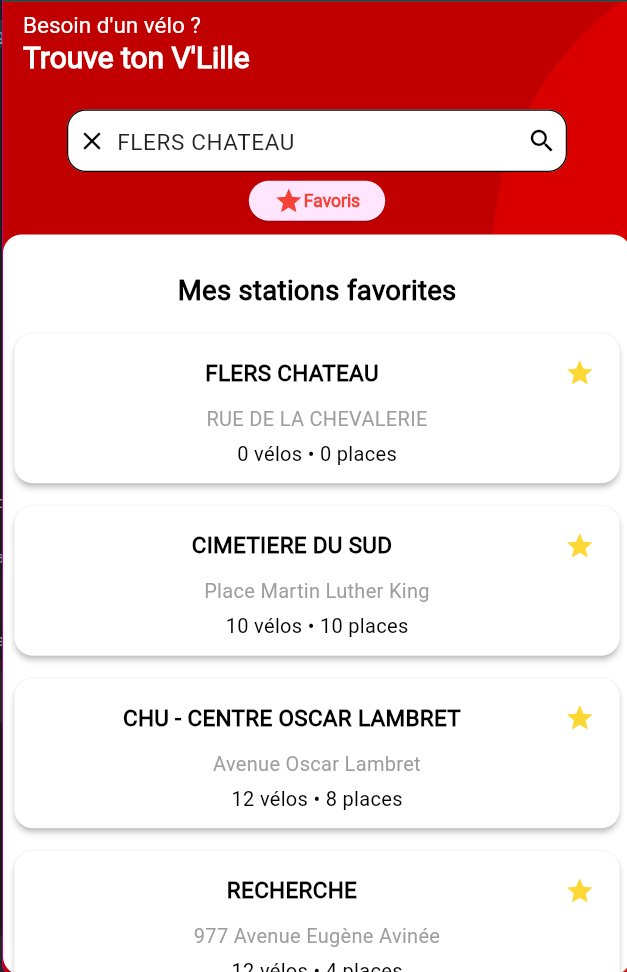
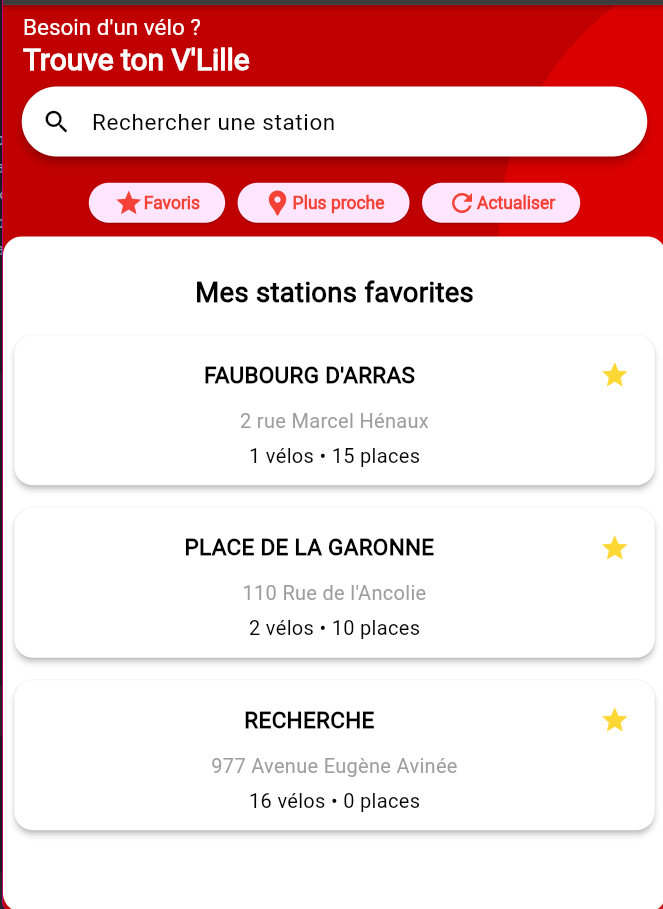
fix searchbar

diff --git a/lib/main.dart b/lib/main.dart
@@ -133,7 +133,41 @@ class VLilleHomePageState extends State<VLilleHomePage> {
                       children: [Icon(Icons.star), Text("Favoris")],
                     ),
                    ),
+                  SizedBox(width: 10),
+                  // bouton station la plus proche
+                  ElevatedButton(
+                    onPressed: () {
+                      //reset la station selectionnée
+                      var proche = Provider.of<StationsProvider>(context, listen: false)
+                          .closestStation;
+                      Provider.of<StationsProvider>(context, listen: false)
+                          .selectStation(Station("", "", 0, 0, 0.0, 0.0, false));
+                      // map sur la station la plus proche
+                      moveMapToStation(proche.y,proche.x);
+                      setState(() {
+                        _showClosest = true;
+                        _showMap = true;
+                        _showFavorites = false;
+                      });
+                    },
+                    child: const Row(
+                      children: [Icon(Icons.location_pin), Text("Plus proche")],
+                    ),
+                  ),
+                  // refresh button
+                  SizedBox(width: 10),
+                  ElevatedButton(
+                    onPressed: () {
+                      setState(() {
+                        Provider.of<StationsProvider>(context, listen: false).refresh();
+                      });
+                    },
+                    child: const Row(
+                      children: [Icon(Icons.refresh), Text("Actualiser")],
+                    ),
+                  ),
                   ],
+
                 ),
                   const SizedBox(height: 20),
                   // La map
@@ -225,18 +259,13 @@ class VLilleHomePageState extends State<VLilleHomePage> {
                 const SizedBox(height: 10),
                 StationSearchBar(
                   mapController: _mapController,
-                  onClearQuery: () {
-                    setState(() {
-                      _showClosest = true;
-                    });
-                  },
-                  onSelectStation: () {
-                    setState(() {
-                      _showClosest = false;
-                      _showFavorites = false;
-                      _showMap = true;
-                    });
-                  },
+                onSelectStation: (){
+                  setState(() {
+                    _showClosest = false;
+                    _showFavorites = false;
+                    _showMap = true;
+                  });
+                },
                 ),
               ],
             ))
@@ -402,66 +431,37 @@ class FavoriteStationsWidget extends StatelessWidget {
 }
 
 
-class StationSearchBar extends StatefulWidget {
-  final Function onSelectStation;
-  final Function onClearQuery;
+class StationSearchBar extends StatefulWidget{
   final MapController mapController;
+  final Function onSelectStation;
 
-  const StationSearchBar(
-      {super.key,
-      required this.onSelectStation,
-      required this.onClearQuery,
-      required this.mapController});
+  const StationSearchBar({super.key, required this.mapController, required this.onSelectStation});
 
   @override
   State<StationSearchBar> createState() => _StationSearchBarState();
+  
 }
 
 class _StationSearchBarState extends State<StationSearchBar> {
-  String query = "";
-  final FocusNode _focusNode = FocusNode();
-  bool _hideSuggestions = true;
-  final TextEditingController _controller = TextEditingController();
-  List<String> suggestions = [];
+  List<Station> stations = [];
+  List<Station> suggestions = [];
+  SearchController searchController = SearchController();
 
-  void onQueryChange(String newQuery) {
+  // @override
+  // void initState(){
+  //   super.initState();
+  //   setState(() {
+  //     stations = Provider.of<StationsProvider>(context, listen: false).stations;
+  //     suggestions = stations;
+  //   });
+  //   print(stations);
+  //
+  // }
+
+  void getSuggestions(String query){
     setState(() {
-      query = newQuery;
-      // if(query.isEmpty){suggestions = [];}
-      suggestions = getSuggestions(query,
-          Provider.of<StationsProvider>(context, listen: false).stations);
     });
-  }
 
-  void initState() {
-    super.initState();
-    _focusNode.addListener(() {
-      if (!_focusNode.hasFocus && query.isEmpty) {
-        setState(() {
-          // suggestions = [];
-        });
-      } else {
-        _hideSuggestions = false;
-        setState(() {
-          suggestions = getSuggestions(query,
-              Provider.of<StationsProvider>(context, listen: false).stations);
-        });
-      }
-    });
-  }
-
-  List<String> getSuggestions(String query, List<Station> stations) {
-    return stations
-        .where((station) =>
-            station.name.toLowerCase().contains(query.toLowerCase()))
-        .map((station) => station.name)
-        .toList();
-  }
-
-  void hideSuggestions() {
-    setState(() {
-      _hideSuggestions = true;
-    });
   }
 
   void moveMapToStation(double lat, double lon) {
@@ -470,110 +470,51 @@ class _StationSearchBarState extends State<StationSearchBar> {
 
   @override
   Widget build(BuildContext context) {
-    return Container(
-        margin: EdgeInsets.only(
-            left: (MediaQuery.of(context).size.width - 400) / 2, top: 20),
-        child: Column(
-          children: [
-            SizedBox(
-              height: 50,
-              width: 400,
-              child: TextField(
-                controller: _controller,
-                focusNode: _focusNode,
-                onChanged: onQueryChange,
-                decoration: InputDecoration(
-                  filled: true,
-                  fillColor: Colors.white,
-                  hintText: "Rechercher une station",
-                  suffixIcon: IconButton(
-                      // rechercher suggestion
-                      onPressed: () {
-                        setState(() {
-                          var station;
-                          // si la recherche correspond à une station
-                          if (Provider.of<StationsProvider>(context,
-                                  listen: false)
-                              .stations
-                              .where((station) => station.name == query)
-                              .isNotEmpty) {
-                            station = Provider.of<StationsProvider>(context,
-                                    listen: false)
-                                .stations
-                                .firstWhere((station) => station.name == query);
-                            Provider.of<StationsProvider>(context,
-                                    listen: false)
-                                .selectStation(station);
-                            moveMapToStation(station.y, station.x);
-                            widget.onSelectStation();
-                          }
-                        });
-                      },
-                      icon: const Icon(Icons.search)),
-                  prefixIcon: IconButton(
-                    onPressed: () {
-                      _controller.clear();
-                      hideSuggestions();
-                      onQueryChange("");
-                      //enlever la station selectionnée
-                      Provider.of<StationsProvider>(context, listen: false)
-                              .selectStation(Station("", "", 0, 0, 0.0, 0.0, false));
-                      var station =
-                          Provider.of<StationsProvider>(context, listen: false)
-                              .closestStation;
-                      moveMapToStation(station.y, station.x);
-                      widget.onClearQuery();
+      return Center(
+        child:Container(
+          width: MediaQuery.of(context).size.width-30,
+          child: SearchAnchor(
+              builder: (BuildContext context, SearchController controller){
+
+                return SearchBar(
+                  padding: const WidgetStatePropertyAll<EdgeInsets>(
+                      EdgeInsets.symmetric(horizontal: 16.0)),
+                  onTap: (){
+                    controller.openView();
+                    stations = Provider.of<StationsProvider>(context, listen: false).stations;
+                    suggestions = stations;
                     },
-                    icon: const Icon(Icons.clear),
-                  ),
-                  border: OutlineInputBorder(
-                    borderRadius: BorderRadius.circular(15),
-                  ),
-                ),
-              ),
-            ),
-            if (!_hideSuggestions)
-              Container(
-                constraints: const BoxConstraints(
-                  maxHeight: 200,
-                ),
-                width: 400,
-                decoration: BoxDecoration(
-                  color: Theme.of(context).colorScheme.surface,
-                  border: Border.all(color: Colors.grey),
-                  borderRadius: BorderRadius.circular(15),
-                ),
-                child: ListView(
-                  children: [
-                    for (var suggestion in suggestions)
-                      ListTile(
-                        title: Text(suggestion),
-                        onTap: () {
-                          _controller.text = suggestion;
-                          Station station;
-                          station = Provider.of<StationsProvider>(context,
-                                  listen: false)
-                              .stations
-                              .firstWhere(
-                                  (station) => station.name == suggestion);
-                          Provider.of<StationsProvider>(context, listen: false)
-                              .selectStation(station);
-                          setState(() {
-                            hideSuggestions();
-                            query = suggestion;
-                            suggestions = [];
-                            moveMapToStation(station.y, station.x);
-                            widget.onSelectStation();
-                          });
-                        },
-                      ),
-                  ],
-                ),
-              )
-          ],
-        ));
+                  hintText: "Rechercher une station",
+                  leading: const Icon(Icons.search),
+                );
+              },
+              suggestionsBuilder: (context,controller){
+                controller.addListener((){
+                  setState(() {
+                    suggestions = stations.where((station) => station.name.toLowerCase().contains(controller.text.toLowerCase())).toList();
+                  });
+                });
+                return List<ListTile>.generate(suggestions.length, (index) {
+                  final Station station = suggestions[index];
+                  return ListTile(
+                    title: Text(station.name),
+                    onTap: (){
+                      controller.closeView(station.name);
+                      // changer la station selectionnée
+                      Provider.of<StationsProvider>(context, listen: false)
+                          .selectStation(station);
+                      moveMapToStation(station.y, station.x);
+                      widget.onSelectStation();
+                    },
+                  );
+                });
+              }
+          ),
+        )
+      );
   }
 }
+
 
 class MapWidget extends StatefulWidget {
   final Function onPinclick;
@@ -600,11 +541,12 @@ class _MapWidgetState extends State<MapWidget> {
     }
     else{
       return Container(
-        margin: const EdgeInsets.only(top: 20),
-        height: 300,
-        width: 300,
-        decoration: const BoxDecoration(
+        margin: const EdgeInsets.only(top: 10),
+        height: 320,
+        width: MediaQuery.of(context).size.width - 20,
+        decoration: BoxDecoration(
           color: Colors.blue,
+          borderRadius: BorderRadius.all(Radius.circular(15)),
         ),
         child: Center(
             child: FlutterMap(

diff --git a/lib/stationsProvider.dart b/lib/stationsProvider.dart
@@ -72,6 +72,34 @@ class StationsProvider with ChangeNotifier, DiagnosticableTreeMixin {
     notifyListeners();
   }
 
+  void refresh(){
+    // on garde le nom de la station selectionnée
+    var selectedStationName = _selectedStation.name;
+    _getStations().then((value) {
+      _stations = value;
+      _closestStation = _stations[0];
+      for (var s in _stations) {
+        // si le nom de la station est dans la liste des stations favorites
+        if (_stationsfav.contains(s.name)) {
+          s.isFavorite = true;
+        }
+        var distance = Geolocator.distanceBetween(
+            currentLocation[0], currentLocation[1], s.y, s.x);
+        if (distance <
+            Geolocator.distanceBetween(currentLocation[0], currentLocation[1],
+                _closestStation.y, _closestStation.x)) {
+          _closestStation = s;
+        }
+        // on remet la station selectionnée refreshed
+        if (s.name == selectedStationName){
+          _selectedStation = s;
+        }
+      }
+
+      notifyListeners();
+    });
+  }
+
   Future<Position> _determinePosition() async {
     bool serviceEnabled;
     LocationPermission permission;

diff --git a/README.md b/README.md
@@ -9,7 +9,6 @@
 - **Favorites list:** Users can add stations to a favorites list for quick access.
 - **Interactive Map:** Shows station locations on a map, with clickable markers to focus on specific stations.
 - **Real-time station information:** Displays live data such as the number of available bikes and parking spaces.
-<!-- - **Responsive design:** Works well on various screen sizes and orientations. -->
 
 ## Screenshots
 ![Home Screen](./screenshots/map-screen.png)
@@ -68,17 +67,13 @@ The app follows a clean and modular architecture with a focus on separation of c
 3. **Favorites:** Add stations to your favorites by clicking the star icon. Access the favorites list by clicking the "Favorites" button.
 4. **Closest Station:** The app automatically detects your location and displays the nearest station with real-time information.
 
-## Customization
-- **Change Theme:** To change the app's theme, modify the `ThemeData` object in the `main.dart` file.
-- **Add More Features:** You can add more functionality like filtering by availability, multi-language support, etc.
 
 ## Future Enhancements
 - Add support for user authentication to save favorites across devices.
 - Implement push notifications for station availability updates.
 - Responsive design
-- Improve performance for a large number of station markers on the map.
-
+- make the app prettier
 
 ---
 
-Made with ❤ by [Chloé varin](https://github.com/chloclicot)
+Made by [Chloé varin](https://github.com/chloclicot)
